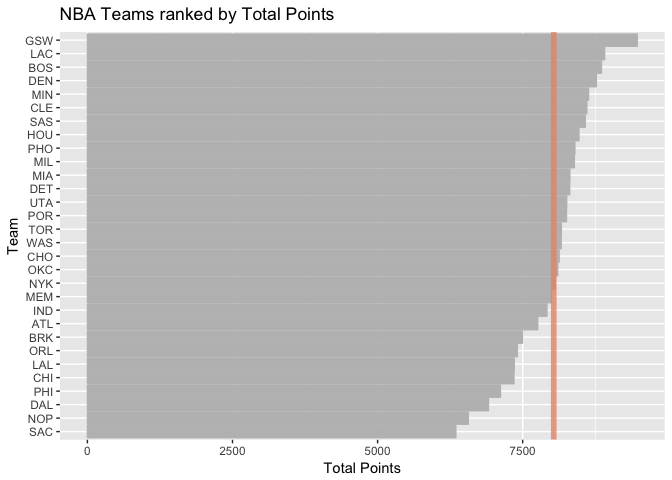
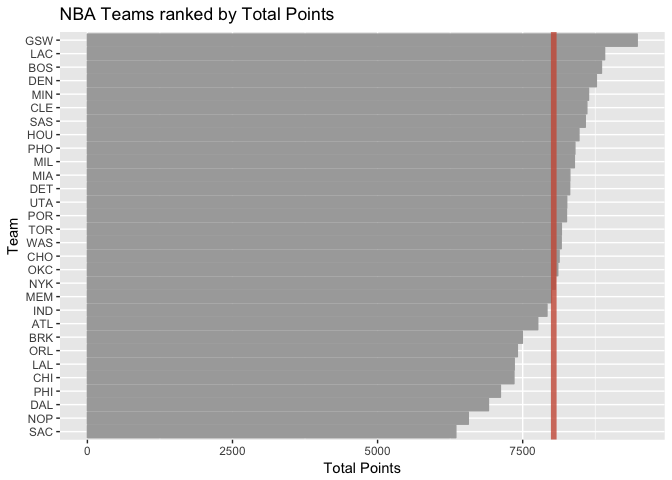
hw03: change graph colors

Changed region(s): [[0.8125, 0.0625, 0.8438, 0.9062]]

diff --git a/hw03/report/hw03-vitali-shypko.md b/hw03/report/hw03-vitali-shypko.md
@@ -59,11 +59,11 @@ teams <- arrange(teams, desc(teams$salary))
 ``` r
 # NBA Teams ranked by Total Salary
 ggplot(teams, aes(x = reorder(team, salary), y = salary)) +
-  geom_bar(stat = 'identity', fill = 'gray', colour = 'gray') +
+  geom_bar(stat = 'identity', fill = 'darkgray', colour = 'darkgray') +
   xlab('Team') +
   ylab('Salary (in millions)') +
   ggtitle('NBA Teams ranked by Total Salary') +
-  geom_hline(aes(yintercept = mean(teams$salary)), colour = 'darksalmon', size = 2, alpha = 0.8) +
+  geom_hline(aes(yintercept = mean(teams$salary)), colour = 'coral3', size = 2, alpha = 0.8) +
   coord_flip()
 ```
 
@@ -72,11 +72,11 @@ ggplot(teams, aes(x = reorder(team, salary), y = salary)) +
 ``` r
 # NBA Teams ranked by Total Points
 ggplot(teams, aes(x = reorder(team, points), y = points)) +
-  geom_bar(stat = 'identity', fill = 'gray', colour = 'gray') +
+  geom_bar(stat = 'identity', fill = 'darkgray', colour = 'darkgray') +
   xlab('Team') +
   ylab('Total Points') +
   ggtitle('NBA Teams ranked by Total Points') +
-  geom_hline(aes(yintercept = mean(teams$points)), colour = 'darksalmon', size = 2, alpha = 0.8) +
+  geom_hline(aes(yintercept = mean(teams$points)), colour = 'coral3', size = 2, alpha = 0.8) +
   coord_flip()
 ```
 
@@ -85,11 +85,11 @@ ggplot(teams, aes(x = reorder(team, points), y = points)) +
 ``` r
 # NBA Teams ranked by Total Efficiency
 ggplot(teams, aes(x = reorder(team, efficiency), y = efficiency)) +
-  geom_bar(stat = 'identity', fill = 'gray', colour = 'gray') +
+  geom_bar(stat = 'identity', fill = 'darkgray', colour = 'darkgray') +
   xlab('Team') +
   ylab('Total Efficiency') +
   ggtitle('NBA Teams ranked by Total Efficiency') +
-  geom_hline(aes(yintercept = mean(teams$efficiency)), colour = 'darksalmon', size = 2, alpha = 0.8) +
+  geom_hline(aes(yintercept = mean(teams$efficiency)), colour = 'coral3', size = 2, alpha = 0.8) +
   coord_flip()
 ```
 
@@ -168,7 +168,7 @@ s1 = 100 * ((PC1 - min(PC1)) / (max(PC1) - min(PC1)))
 ``` r
 # NBA Teams ranked by Total Salary
 ggplot(PC, aes(x = reorder(team, s1), y = s1)) +
-  geom_bar(stat = 'identity', fill = 'gray', colour = 'gray') +
+  geom_bar(stat = 'identity', fill = 'darkgray', colour = 'darkgray') +
   xlab('Team') +
   ylab('First PC (scaled from 0 to 100)') +
   ggtitle('NBA Teams ranked by scaled PC1') +
